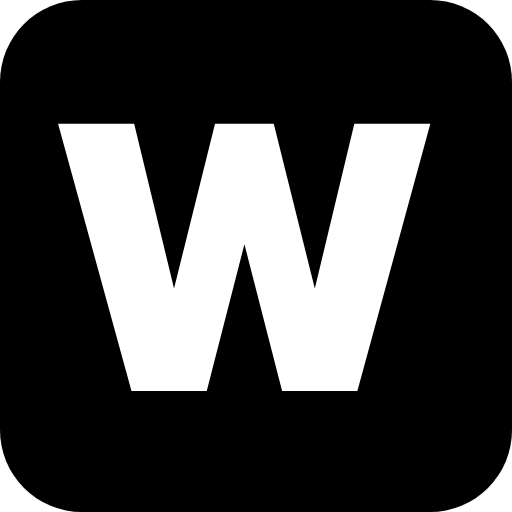
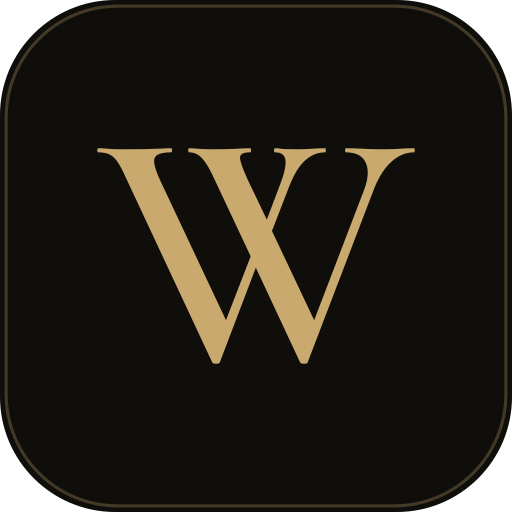
Aplica a nova identidade e a mensagem de Marketing na página inicial
- Logo nova no cabeçalho e no rodapé; ícone e favicon trocados
- A página fala só do Portal do Colaborador; os textos e links do Portal
  do Cliente saem da página inicial (o login e as rotas continuam)
- Novo item: trabalhamos junto com o contador da empresa
- Instagram @dabliwbpo no rodapé

diff --git a/src/components/marketing/landing-page.tsx b/src/components/marketing/landing-page.tsx
@@ -1,3 +1,4 @@
+import Image from "next/image";
 import Link from "next/link";
 import {
   ArrowRight,
@@ -5,8 +6,8 @@ import {
   ChatCircle,
   Check,
   CheckCircle,
+  Briefcase,
   FileText,
-  Folder,
   Handshake,
   IdentificationBadge,
   LockKey,
@@ -76,8 +77,13 @@ const DIFERENCIAIS = [
   },
   {
     icon: LockKey,
-    title: "Acesso separado por perfil",
-    desc: "Clientes e colaboradores enxergam só o que é deles, com login próprio.",
+    title: "Acesso próprio para cada colaborador",
+    desc: "Cada colaborador enxerga só o que é dele, com login próprio.",
+  },
+  {
+    icon: Briefcase,
+    title: "Trabalhamos junto com o seu contador",
+    desc: "Enviamos os documentos todo mês e esclarecemos as dúvidas com ele.",
   },
   {
     icon: ChatCircle,
@@ -93,11 +99,15 @@ export function LandingPage() {
     >
       <header className="fixed inset-x-0 top-0 z-50 border-b border-[rgba(201,169,110,0.12)] bg-[#0f0e0b]/85 backdrop-blur-xl">
         <div className="relative mx-auto flex h-20 max-w-[1280px] items-center justify-between px-6 sm:px-10 lg:px-16">
-          <a
-            href="#hero"
-            className="font-[family-name:var(--font-display)] text-xl font-medium tracking-wide text-[#f0ece4]"
-          >
-            DABLIW<span className="text-[#c9a96e]"> BPO</span>
+          <a href="#hero" aria-label="DABLIW BPO, início">
+            <Image
+              src="/logo-dabliw-bpo.svg"
+              alt="DABLIW BPO"
+              width={172}
+              height={40}
+              priority
+              className="h-10 w-auto"
+            />
           </a>
 
           <nav className="hidden items-center gap-9 md:flex">
@@ -305,20 +315,11 @@ export function LandingPage() {
             <div className="grid gap-4">
               <div className="flex items-center gap-4 rounded-xl border border-[rgba(201,169,110,0.12)] bg-[#1c1a15] p-5">
                 <div className="flex h-11 w-11 shrink-0 items-center justify-center rounded-full border border-[rgba(201,169,110,0.25)] text-[#c9a96e]">
-                  <Folder size={20} />
-                </div>
-                <div>
-                  <p className="text-sm font-medium text-[#f0ece4]">Portal do Cliente</p>
-                  <p className="text-xs text-[#706b61]">Documentos e relatórios da sua empresa, organizados.</p>
-                </div>
-              </div>
-              <div className="flex items-center gap-4 rounded-xl border border-[rgba(201,169,110,0.12)] bg-[#1c1a15] p-5">
-                <div className="flex h-11 w-11 shrink-0 items-center justify-center rounded-full border border-[rgba(201,169,110,0.25)] text-[#c9a96e]">
                   <IdentificationBadge size={20} />
                 </div>
                 <div>
                   <p className="text-sm font-medium text-[#f0ece4]">Portal do Colaborador</p>
-                  <p className="text-xs text-[#706b61]">Holerites, férias e admissão em um só lugar.</p>
+                  <p className="text-xs text-[#706b61]">Holerites, férias e contratos em um só lugar, assinados no celular.</p>
                 </div>
               </div>
             </div>
@@ -336,16 +337,9 @@ export function LandingPage() {
             </h2>
             <p className="mb-8 max-w-md text-base leading-relaxed text-[#a8a295]">
               Holerites, admissões, férias e contratos organizados num portal só
-              seu, com acesso separado para clientes e colaboradores.
+              seu, com acesso separado para cada colaborador.
             </p>
             <div className="flex flex-wrap gap-x-8 gap-y-4">
-              <Link
-                href="/login?callbackUrl=/portal-cliente"
-                className="inline-flex items-center gap-2 text-[14px] font-normal uppercase tracking-[0.1em] text-[#a8a295] transition-colors hover:text-[#c9a96e]"
-              >
-                Portal do Cliente
-                <ArrowRight size={14} />
-              </Link>
               <Link
                 href="/login?callbackUrl=/portal-colaborador"
                 className="inline-flex items-center gap-2 text-[14px] font-normal uppercase tracking-[0.1em] text-[#a8a295] transition-colors hover:text-[#c9a96e]"
@@ -445,9 +439,7 @@ export function LandingPage() {
       <footer className="px-6 py-14 sm:px-10 lg:px-16">
         <div className="mx-auto flex max-w-[1280px] flex-col gap-10 md:flex-row md:items-start md:justify-between">
           <div className="max-w-xs">
-            <span className="font-[family-name:var(--font-display)] text-xl font-medium text-[#f0ece4]">
-              DABLIW<span className="text-[#c9a96e]"> BPO</span>
-            </span>
+            <Image src="/logo-dabliw-bpo.svg" alt="DABLIW BPO" width={190} height={44} className="h-11 w-auto" />
             <p className="mt-3 text-sm leading-relaxed text-[#706b61]">
               Financeiro e RH completos para empresas que preferem cuidar do
               próprio negócio.
@@ -476,11 +468,6 @@ export function LandingPage() {
               </h4>
               <ul className="mt-4 flex flex-col gap-2.5 text-sm text-[#a8a295]">
                 <li>
-                  <Link href="/login?callbackUrl=/portal-cliente" className="transition-colors hover:text-[#c9a96e]">
-                    Portal do Cliente
-                  </Link>
-                </li>
-                <li>
                   <Link href="/login?callbackUrl=/portal-colaborador" className="transition-colors hover:text-[#c9a96e]">
                     Portal do Colaborador
                   </Link>
@@ -506,6 +493,16 @@ export function LandingPage() {
                     className="transition-colors hover:text-[#c9a96e]"
                   >
                     (65) 99253-6122
+                  </a>
+                </li>
+                <li>
+                  <a
+                    href="https://www.instagram.com/dabliwbpo"
+                    target="_blank"
+                    rel="noopener noreferrer"
+                    className="transition-colors hover:text-[#c9a96e]"
+                  >
+                    @dabliwbpo
                   </a>
                 </li>
               </ul>
